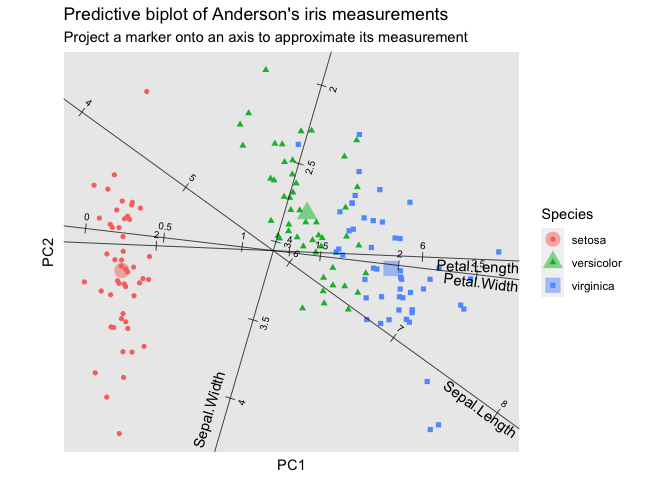
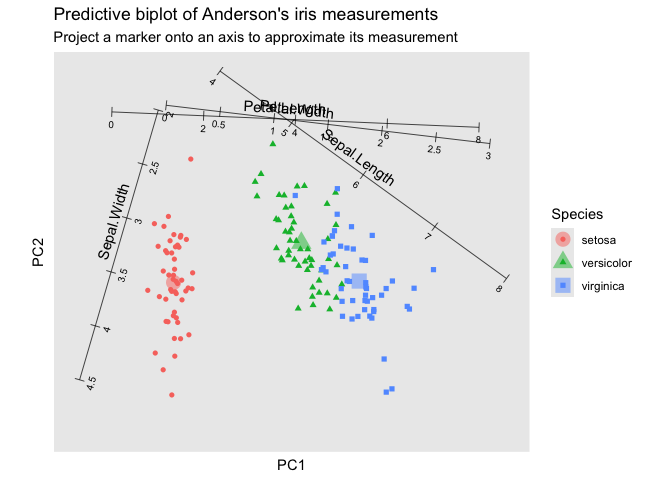
document rule stat + incorporate into readme (with buggy overlapping labels

diff --git a/README.md b/README.md
@@ -239,7 +239,9 @@ ggbiplot(iris_pca, sec.axes = "cols", scale.factor = 2) +
 ![](man/figures/README-interpolative%20biplot-1.png)<!-- -->
 
 When variables are represented in standard coordinates, as typically in
-PCA, their rules can be rescaled to yield a predictive biplot:[^9]
+PCA, their rules can be rescaled to yield a predictive biplot.[^9] For
+legibility, `stat_rule()` limits the axes to the data range and offsets
+them from the origin:
 
 ``` r
 ggbiplot(iris_pca, axis.type = "predictive", axis.percents = FALSE) +
@@ -249,7 +251,8 @@ ggbiplot(iris_pca, axis.type = "predictive", axis.percents = FALSE) +
     aes(color = Species, shape = Species),
     size = 5, alpha = .5, fun.data = mean_se
   ) +
-  geom_cols_axis(aes(label = name, center = center, scale = scale)) +
+  # geom_cols_axis(aes(label = name, center = center, scale = scale)) +
+  stat_cols_rule(aes(label = name, center = center, scale = scale)) +
   ggtitle("Predictive biplot of Anderson's iris measurements",
           "Project a marker onto an axis to approximate its measurement")
 ```
@@ -310,7 +313,7 @@ Additional design elements and features have been informed by the
 monograph
 [*Biplots*](https://www.google.com/books/edition/Biplots/lTxiedIxRpgC)
 and the textbook [*Understanding
-Biplots*](https://www.wiley.com/en-us/Understanding+Biplots-p-9780470012550)
+Biplots*](https://www.wiley.com/en-us/Understanding+Biplots-p-9781119972907)
 by John C. Gower, David J. Hand, Sugnet Gardner–Lubbe, and Niel J. Le
 Roux, and by the volume [*Principal Components
 Analysis*](https://link.springer.com/book/10.1007/b98835) by I. T.
